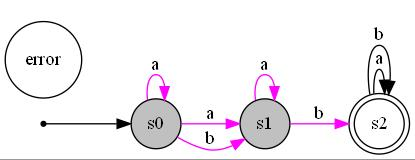
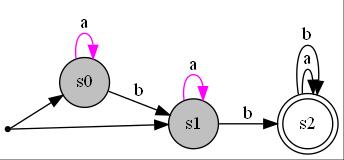
Gerado Gif e corrigido imagem extra

diff --git a/src/files/generateDot.py b/src/files/generateDot.py
@@ -16,7 +16,7 @@ def gerarDotInitial(lstadosi: list, lstadosf: list, ltrans: list):
     arquivo.write("node [shape = point];\n\t")
     arquivo.write("p\n\t")
     arquivo.write("node [shape = circle];\n\t")
-    arquivo.write("error [style=filled, fillcolor=white];\n\t")
+    #arquivo.write("error [style=filled, fillcolor=white];\n\t")
     for j in lstadosi:
         arquivo.write("p -> " + j + "\n\t")
     arquivo.write("node [shape = circle];\n\t")
@@ -34,18 +34,27 @@ def gerarDotInitial(lstadosi: list, lstadosf: list, ltrans: list):
 def estadosCorrentes(lstadosi: list, lstadosf: list, ltrans: list, simb: list):
     tam = 0
     gerarDotTransicoes2(lstadosi, lstadosf, ltrans, lstadosi, tam, simb[0])
-
     trans = []
     converte = []
     converte2 = []
     currentS0 = []
     verifica = ["ok"]
+    passa = []
     #verifica = ["ok"]
     #Copia profunda no python
     currentS = deepcopy(lstadosi)
-    simb.append('ok')
+    #simb.append('ok')
 
-    for l in simb:
+    # #manipular vetor
+    # print(simb)
+    # simb.pop(0)
+    #simb.append('*')
+    # print(simb)
+    passa = deepcopy(simb)
+    passa.pop(0)
+    passa.append('*')
+
+    for l, p in zip(simb, passa):
         tam += 1
         trans.clear()
 
@@ -59,19 +68,18 @@ def estadosCorrentes(lstadosi: list, lstadosf: list, ltrans: list, simb: list):
         for k in trans:
             if l == k.trans:
                 currentS.append(k.destino)
+        currentS0 = deepcopy(list(set(currentS)))
 
-        currentS0 = list(set(currentS))
-        print(currentS0)
-
-        if (tam == 1):
-            gerarDotTransicoes2(lstadosi, lstadosf, ltrans, currentS0, tam,
-                                verifica)
+        #print(currentS0)
+        # if (tam == 1):
+        #     gerarDotTransicoes2(lstadosi, lstadosf, ltrans, currentS0, tam,
+        #                         verifica)
 
         # elif (tam != 1):
         #     print(l)
         #     gerarDotTransicoes2(lstadosi, lstadosf, ltrans, currentS, tam, l)
-
-        gerarDotTransicoes2(lstadosi, lstadosf, ltrans, currentS0, tam, l)
+        print(passa)
+        gerarDotTransicoes2(lstadosi, lstadosf, ltrans, currentS0, tam, p)
 
 
 def gerarDotTransicoes(lstadosi: list, lstadosf: list, ltrans: list,
@@ -116,7 +124,7 @@ def gerarDotTransicoes2(lstadosi: list, lstadosf: list, ltrans: list,
     currentState = deepcopy(estado)
     tam = str(tam)
     tamT = 0
-
+    #print(simb)
     arquivo = open('dotfiles/arq_' + tam + '.dot', 'w')
     arquivo.write("digraph maquina_de_estados { \n\t")
     arquivo.write("rankdir=LR;\n\t")
@@ -127,7 +135,7 @@ def gerarDotTransicoes2(lstadosi: list, lstadosf: list, ltrans: list,
     arquivo.write("node [shape = point];\n\t")
     arquivo.write("p\n\t")
     arquivo.write("node [shape = circle];\n\t")
-    arquivo.write("error [style=filled, fillcolor=white];\n\t")
+    #arquivo.write("error [style=filled, fillcolor=white];\n\t")
     for j in lstadosi:
         arquivo.write("p -> " + j + "\n\t")
     arquivo.write("node [shape = circle];\n\t")
@@ -144,12 +152,13 @@ def gerarDotTransicoes2(lstadosi: list, lstadosf: list, ltrans: list,
 
             tamT += 1
 
-            # if (t == k.origem and simb == k.trans):
-            #     arquivo.write(k.origem + " -> " + k.destino + "[label = " +
-            #                   "\"" + k.trans + "\"" + "]" + "[color=lime];" +
-            #                   "\n\t")
+            if (simb[0] == "*"):
+                arquivo.write(k.origem + " -> " + k.destino + "[label = " +
+                              "\"" + k.trans + "\"" + "]" + "[color=black];" +
+                              "\n\t")
+                break
 
-            if (t == k.origem):
+            if (t == k.origem and k.trans == simb[0]):
                 arquivo.write(k.origem + " -> " + k.destino + "[label = " +
                               "\"" + k.trans + "\"" + "]" +
                               "[color=magenta];" + "\n\t")
@@ -163,12 +172,6 @@ def gerarDotTransicoes2(lstadosi: list, lstadosf: list, ltrans: list,
                     arquivo.write(k.origem + " -> " + k.destino + "[label = " +
                                   "\"" + k.trans + "\"" + "]" +
                                   "[color=black];" + "\n\t")
-
-            # else:
-            #     if (tamT == currentState.index(currentState[-1])):
-            #         arquivo.write(k.origem + " -> " + k.destino + "[label = " +
-            #                       "\"" + k.trans + "\"" + "]" +
-            #                       "[color=black];" + "\n\t")
 
     arquivo.write("}")
     arquivo.close()

diff --git a/src/index.py b/src/index.py
@@ -1,6 +1,7 @@
 from files.readText import *
 from files.generateDot import *
 from states.generatestates import *
+from bash.generateBash import *
 
 states = readFile('entry/teste.txt')
 
@@ -15,3 +16,6 @@ gerarDotInitial(statei, statef, ltrans)
 #Gerei transicao
 #gerarDotTransicoes(statei, statef, ltrans, word, 0)
 estadosCorrentes(statei, statef, ltrans, word)
+
+script2 = 'convert -delay 60 -loop 0 images/*.jpg giff.gif'
+run_script(script2)
